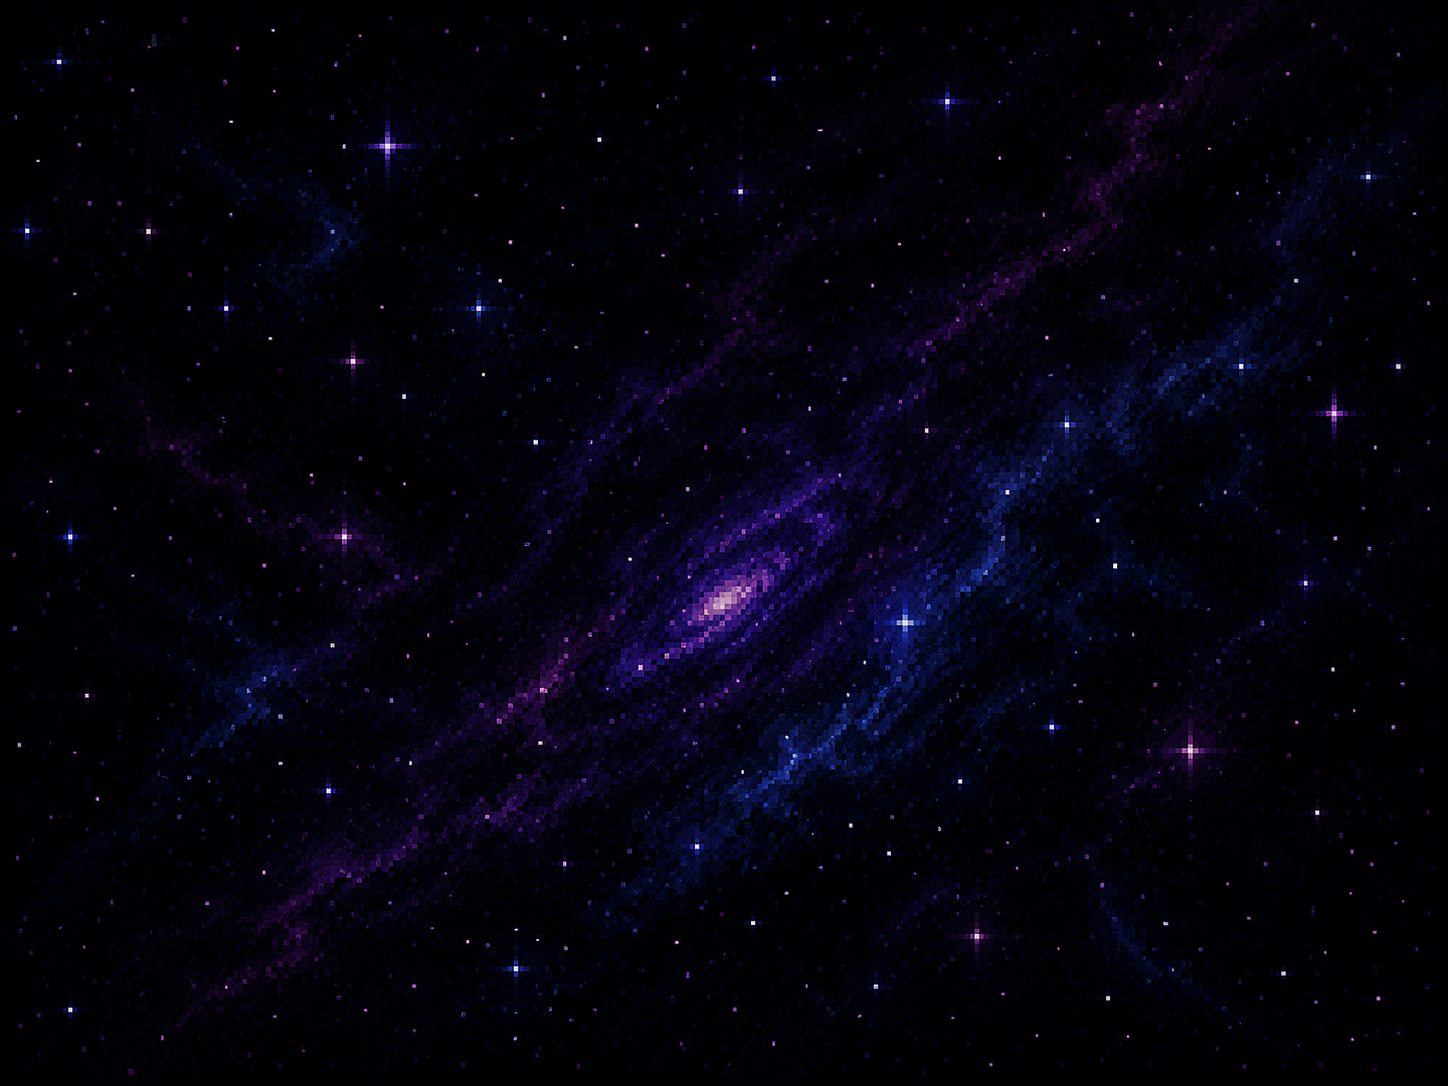
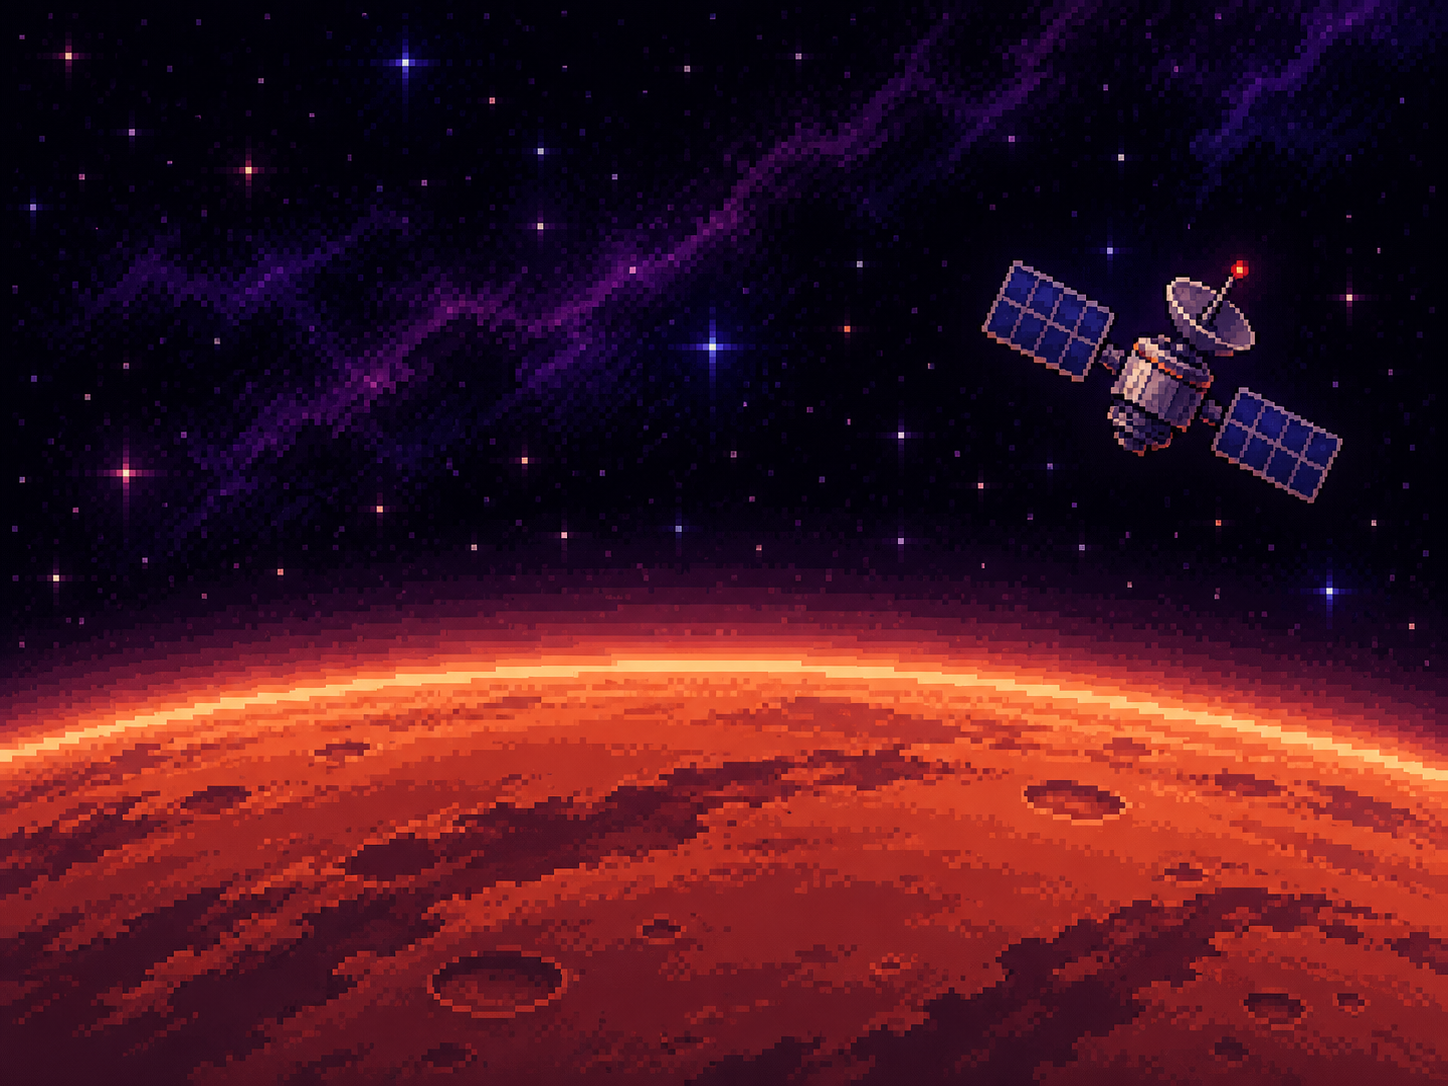
Remove pycache and update gitignore tracking rules

diff --git a/main.py b/main.py
@@ -6,6 +6,8 @@ pygame.init()
 pygame.mixer.init()
 
 Current_state = 'start_menu'
+Is_Victory = False
+NextRound = False
 RUNNING = True
 clock = pygame.time.Clock()
 FPS = 60
@@ -41,17 +43,19 @@ while RUNNING:
             break
 
         if event.type == pygame.KEYDOWN:
-            if event.key == pygame.K_SPACE and now - player_last_fire > projectile['cooldown']:
-                player_last_fire = now
-                play_sfx = pygame.mixer.Sound(projectile['sound'])
-                play_sfx.set_volume(0.4)
-                play_sfx.play()
-                projectile_hitbox = pygame.Rect(player['x_pos'], player['y_pos'], projectile['rect_width'], projectile['rect_height'])
-                projectile_hitbox.center = player['rect'].center
-                projectile['list'].append(projectile_hitbox)
+            if Current_state == 'game':
+                if event.key == pygame.K_SPACE and now - player_last_fire > projectile['cooldown']:
+                    player_last_fire = now
+                    play_sfx = pygame.mixer.Sound(projectile['sound'])
+                    play_sfx.set_volume(0.4)
+                    play_sfx.play()
+                    projectile_hitbox = pygame.Rect(player['x_pos'], player['y_pos'], projectile['rect_width'], projectile['rect_height'])
+                    projectile_hitbox.center = player['rect'].center
+                    projectile['list'].append(projectile_hitbox)
             
             if event.key == pygame.K_RETURN and Current_state == 'start_menu':
                 Current_state = 'loading'
+
 # Game State
     if Current_state == 'game':
         pygame.display.set_caption(f"{GameTitle} {Version}   FPS: {int(clock.get_fps())}")
@@ -74,6 +78,16 @@ while RUNNING:
             player['x_pos'] += player['speed']
 
         player['rect'].centerx = player['x_pos']
+
+    # Stage 1 to 2
+        if isinstance(current_stage, Stage_1):
+            if player_Score == current_stage.milestone_score:
+                Is_Victory = True
+                Current_state = None
+                if NextRound:
+                    current_stage = Stage_2()
+                    current_music = current_stage.backgroundMusic
+                    current_bg = current_stage.Background()
 
     # Projectile Movement
         for projectile_rect in projectile['list']:
@@ -173,7 +187,7 @@ while RUNNING:
         else:
             pygame.time.wait(3000)
             Current_state = 'FirstRound'
-            current_stage.RoundWait = pygame.time.get_ticks() + 3500
+            current_stage.RoundWait = pygame.time.get_ticks() + 3000
 
         pygame.draw.rect(screen, 'White', filled_bar)
         pygame.draw.rect(screen, 'White', gui['Loading'], 2)
@@ -200,7 +214,13 @@ while RUNNING:
             channel = None
             Current_state = 'game'
 
+    elif Is_Victory:
+        screen.fill("Black")
+        
+
     pygame.display.flip()
         
 pygame.quit()
 sys.exit()
+
+# Line 79

diff --git a/Data/StateData.py b/Data/StateData.py
@@ -45,3 +45,16 @@ class Stage_1:
         enemy['spawn_cd'] = 1500
         enemy['list'] = []
         return enemy
+    
+    milestone_score = 3
+
+class Stage_2:
+    backgroundMusic = 'Assets/bgMusic/stage2.mp3'
+
+    def Background(self):
+        background = pygame.image.load("Assets/Backgrounds/level2_bg.png").convert_alpha()
+        background = pygame.transform.scale(background, (800, 600))
+        return background
+    
+    def Enemies(self):
+        pass